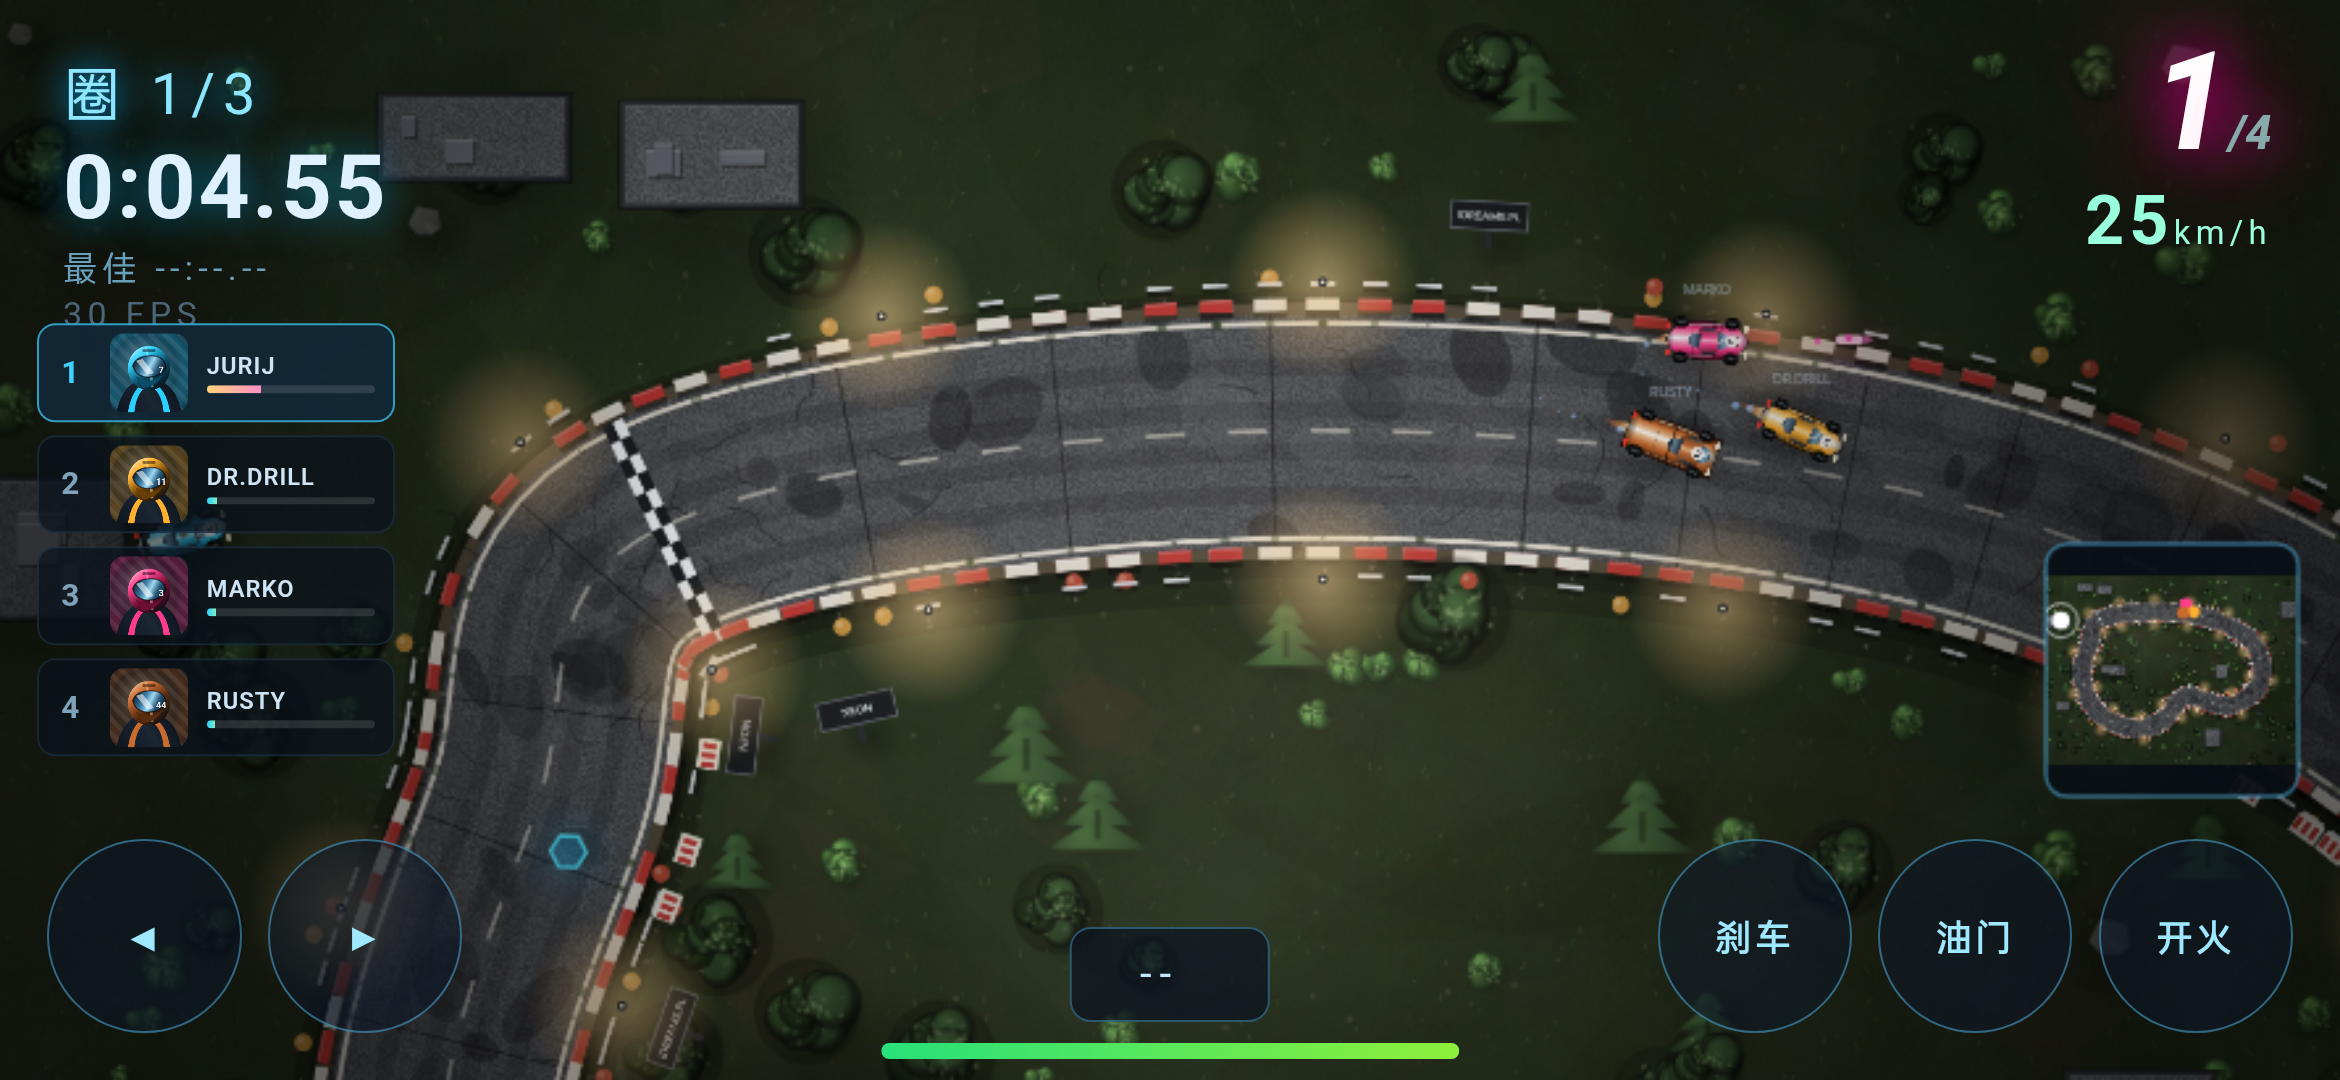
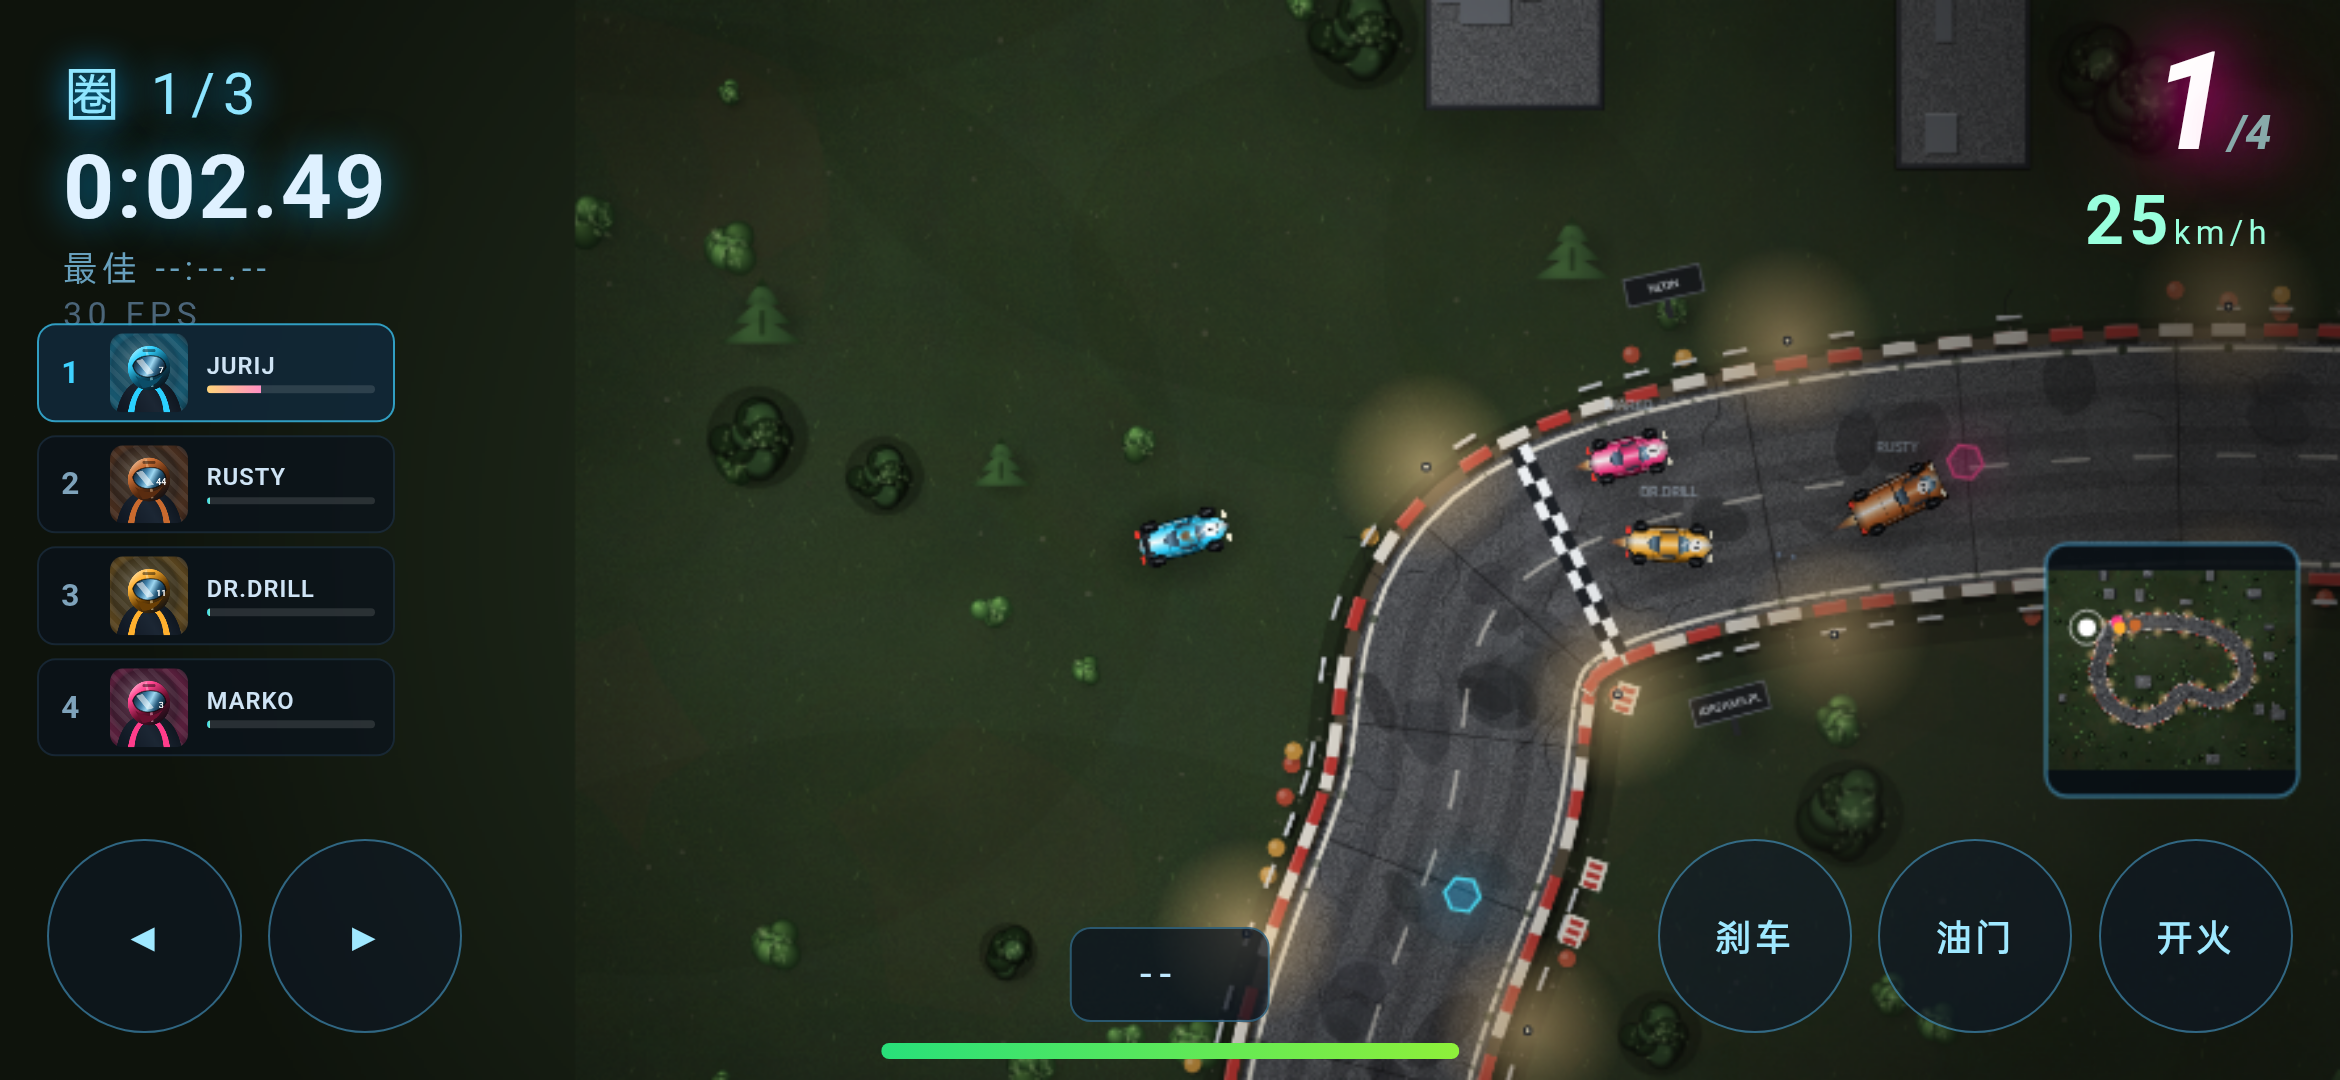
fix(touch): bindTouch missed prop arg (all touch input dead); feat(map): 512px tile rendering; no reverse during countdown

diff --git a/js/game.js b/js/game.js
@@ -54,6 +54,11 @@
   const UI = CONTENT.ui_labels || [];
 
   // ---------- 输入 ----------
+  // 移动端长按会触发系统菜单/文字选择，直接屏蔽
+  document.addEventListener('contextmenu', (e) => { e.preventDefault(); }, { passive: false });
+  document.addEventListener('selectstart', (e) => { e.preventDefault(); }, { passive: false });
+  document.addEventListener('gesturestart', (e) => { e.preventDefault(); }, { passive: false });
+
   addEventListener('keydown', (e) => {
     KEYS[e.code] = true;
     audioInit();
@@ -76,8 +81,14 @@
       el.addEventListener('touchstart', on, { passive: false });
       el.addEventListener('touchend', off, { passive: false });
       el.addEventListener('touchcancel', off, { passive: false });
+      el.addEventListener('pointerdown', (e) => { e.preventDefault(); touch[prop] = true; }, { passive: false });
+      el.addEventListener('pointerup', (e) => { e.preventDefault(); touch[prop] = false; }, { passive: false });
+      el.addEventListener('pointercancel', () => { touch[prop] = false; });
+      el.addEventListener('pointerleave', () => { touch[prop] = false; });
     };
-    ['tLeft','tRight','tGas','tBrake'].forEach(id => mk(id));
+    // 注意：必须传入 prop，否则 touch[undefined] 会被置位，触摸控制全部失效
+    [['tLeft', 'left'], ['tRight', 'right'], ['tGas', 'gas'], ['tBrake', 'brake']]
+      .forEach(pair => mk(pair[0], pair[1]));
     const fire = document.getElementById('tFire');
     if (fire) fire.addEventListener('touchstart', (e) => { e.preventDefault(); playerFire(); }, { passive: false });
   }
@@ -1052,7 +1063,8 @@
       let inp;
       if (c === p && !AUTOPLAY) inp = { steer, gas, brake };
       else inp = aiInput(c, dt);
-      if (G.state === 'countdown') inp = { steer: 0, gas: false, brake: true };
+      // 倒计时不要踩刹车（会把静止的车推向负速度，看起来像倒车）
+      if (G.state === 'countdown') inp = { steer: 0, gas: false, brake: false };
       c.update(dt, inp);
     }
     resolveCollisions(dt);
@@ -1170,19 +1182,16 @@
       ctx.fillRect(G.camX - halfW, G.camY - halfH, halfW * 2, halfH * 2);
     }
 
-    // 预烘焙地图：只绘制可视区域（避免整张大图每帧上传 GPU）
-    if (G.map) {
-      const halfW = (VW / Z) / 2, halfH = (VH / Z) / 2;
-      const left = Math.max(G.map.x, G.camX - halfW);
-      const top = Math.max(G.map.y, G.camY - halfH);
-      const right = Math.min(G.map.x + G.map.w, G.camX + halfW);
-      const bottom = Math.min(G.map.y + G.map.h, G.camY + halfH);
-      if (right > left && bottom > top) {
-        ctx.drawImage(
-          G.map.canvas,
-          left - G.map.x, top - G.map.y, right - left, bottom - top,
-          left, top, right - left, bottom - top
-        );
+    // 地图瓦片：只绘制与可视范围相交的块
+    if (G.map && G.map.tiles) {
+      const halfW = (VW / Z) / 2 + 40, halfH = (VH / Z) / 2 + 40;
+      const left = G.camX - halfW, right = G.camX + halfW;
+      const top = G.camY - halfH, bottom = G.camY + halfH;
+      const tiles = G.map.tiles;
+      for (let i = 0; i < tiles.length; i++) {
+        const t = tiles[i];
+        if (t.x > right || t.x + t.w < left || t.y > bottom || t.y + t.h < top) continue;
+        ctx.drawImage(t.canvas, t.x, t.y);
       }
     }
 
@@ -1277,7 +1286,7 @@
       const dw = G.map.w * s2, dh = G.map.h * s2;
       const ox = bx + (size - dw) / 2;
       const oy = by + (size - dh) / 2;
-      ctx.drawImage(G.map.thumb || G.map.canvas, ox, oy, dw, dh);
+      if (G.map.thumb) ctx.drawImage(G.map.thumb, ox, oy, dw, dh);
 
       // 车手位置
       for (const c of G.cars) {

diff --git a/js/terrain.js b/js/terrain.js
@@ -858,7 +858,27 @@ const Terrain = (() => {
     thumb.height = Math.max(1, Math.round(h * tScale));
     thumb.getContext('2d').drawImage(cv, 0, 0, thumb.width, thumb.height);
 
-    return { canvas: cv, x: x0, y: y0, w: w, h: h, theme: T, thumb: thumb, edgeColor: edgeColor };
+    // 把整张地图切成 512 的瓦片，之后只按可视范围绘制；大画布可以释放
+    const TILE = 512;
+    const tiles = [];
+    for (let ty = 0; ty < h; ty += TILE) {
+      for (let tx = 0; tx < w; tx += TILE) {
+        const tw = Math.min(TILE, w - tx);
+        const th = Math.min(TILE, h - ty);
+        const tc = document.createElement('canvas');
+        tc.width = tw; tc.height = th;
+        tc.getContext('2d').drawImage(cv, tx, ty, tw, th, 0, 0, tw, th);
+        tiles.push({ x: x0 + tx, y: y0 + ty, w: tw, h: th, canvas: tc });
+      }
+    }
+
+    // 释放整张大画布，只保留瓦片与缩略图（显著降低内存峰值）
+    try { cv.width = 1; cv.height = 1; } catch (e) {}
+
+    return {
+      canvas: null, tiles: tiles, x: x0, y: y0, w: w, h: h,
+      theme: T, thumb: thumb, edgeColor: edgeColor,
+    };
   }
 
   return { build, THEMES };

diff --git a/style.css b/style.css
@@ -288,3 +288,11 @@ button:disabled { opacity:.4; cursor:not-allowed; }
 .loading.hidden { display:none; }
 .loading span { animation:pulse 1.1s ease-in-out infinite; }
 @keyframes pulse { 0%,100%{opacity:.45} 50%{opacity:1} }
+/* 移动端：禁止文字选择/长按菜单，保证触屏按键可靠 */
+html, body, #app, .overlay, #hud, #touch {
+  -webkit-user-select: none; user-select: none;
+  -webkit-touch-callout: none;
+  -webkit-tap-highlight-color: transparent;
+  overscroll-behavior: none;
+}
+#touch button, #touch, #hud, .overlay, canvas { touch-action: none; }

diff --git a/CHANGELOG.md b/CHANGELOG.md
@@ -1,5 +1,21 @@
 # 更新日志
 
+## 未发布 — 触屏控制与地图分块
+
+### 触屏完全不响应（严重）
+- 原因：`bindTouch()` 里 `['tLeft','tRight','tGas','tBrake'].forEach(id => mk(id))` **漏传了 prop 参数**，于是所有触摸按键都在写 `touch[undefined]`，油门/刹车/转向从未生效。
+- 修复：改为 `[['tLeft','left'], …]` 成对传参；并补充 pointer 事件兜底。
+- 顺带禁用长按文字选择/系统菜单（`user-select:none` + `contextmenu/selectstart` 拦截），否则长按油门会弹出「复制/全选/分享」把手势吃掉。
+
+### 地图改为分块贴图
+- 烘焙完成后把整张地图切成 **512×512 瓦片**，只绘制与视口相交的瓦片（通常 4–9 块）。
+- **释放整张大画布**（`canvas.width=1`），内存峰值显著下降。
+- 小地图只用预生成的 256px 缩略图。
+
+### 其它
+- 倒计时不再踩刹车：之前会把静止的车推向负速度，起步像在倒车。
+
+
 ## v0.4.2 — 玩家车出画修复
 
 - **修复比赛里看不到自己的车**：v0.4.1 给相机加的钳制范围是「地图内缩半屏」，而地图留白（320）小于半屏宽度（约 850），靠近地图边缘时相机会被推开，把玩家挤出画面。
@@ -18,20 +34,3 @@
 - 车辆精灵超采样 4× → 3×，纹理内存减半。
 
 ### 卡顿修复
-- 地图烘焙在主线程同步执行，手机上要数秒，看起来像卡死。现在**先显示「生成赛道…」加载页**，再延迟一帧烘焙。
-- 触屏设备把地面细节密度降到 **45%**（草叶/碎石/斑驳/树木数量），烘焙时间大幅缩短。
-- 地图留白 420 → 320，进一步减少像素量。
-
-### 显示修复
-- 视口从固定 `width=980` 改为 `width=device-width`：真机上不再右侧裁切、按钮可正常点击。
-- 相机**钳制在地图范围内**，不再露出地图外的纯色边（先前看起来像左右黑边）。
-- 过滤掉原作文案里带 `%d` / ` 的格式化占位符台词（曾显示 “win this race and take $%d”）。
-
-### 其它
-- 主循环加异常兜底：单帧异常不会终止 rAF 链，错误显示在 HUD 上便于排查。
-- Android 端打开 WebView 调试并把 JS 控制台输出到 logcat（`KRally_JS`），便于真机排错。
-
-## v0.4.0 — 开放赛道 / 检查点 / 多圈幽灵
-
-### 赛道：闭合 / 开放
-- 编辑器新增「类型」开关：闭合（环形）或开放（单程冲刺）。
